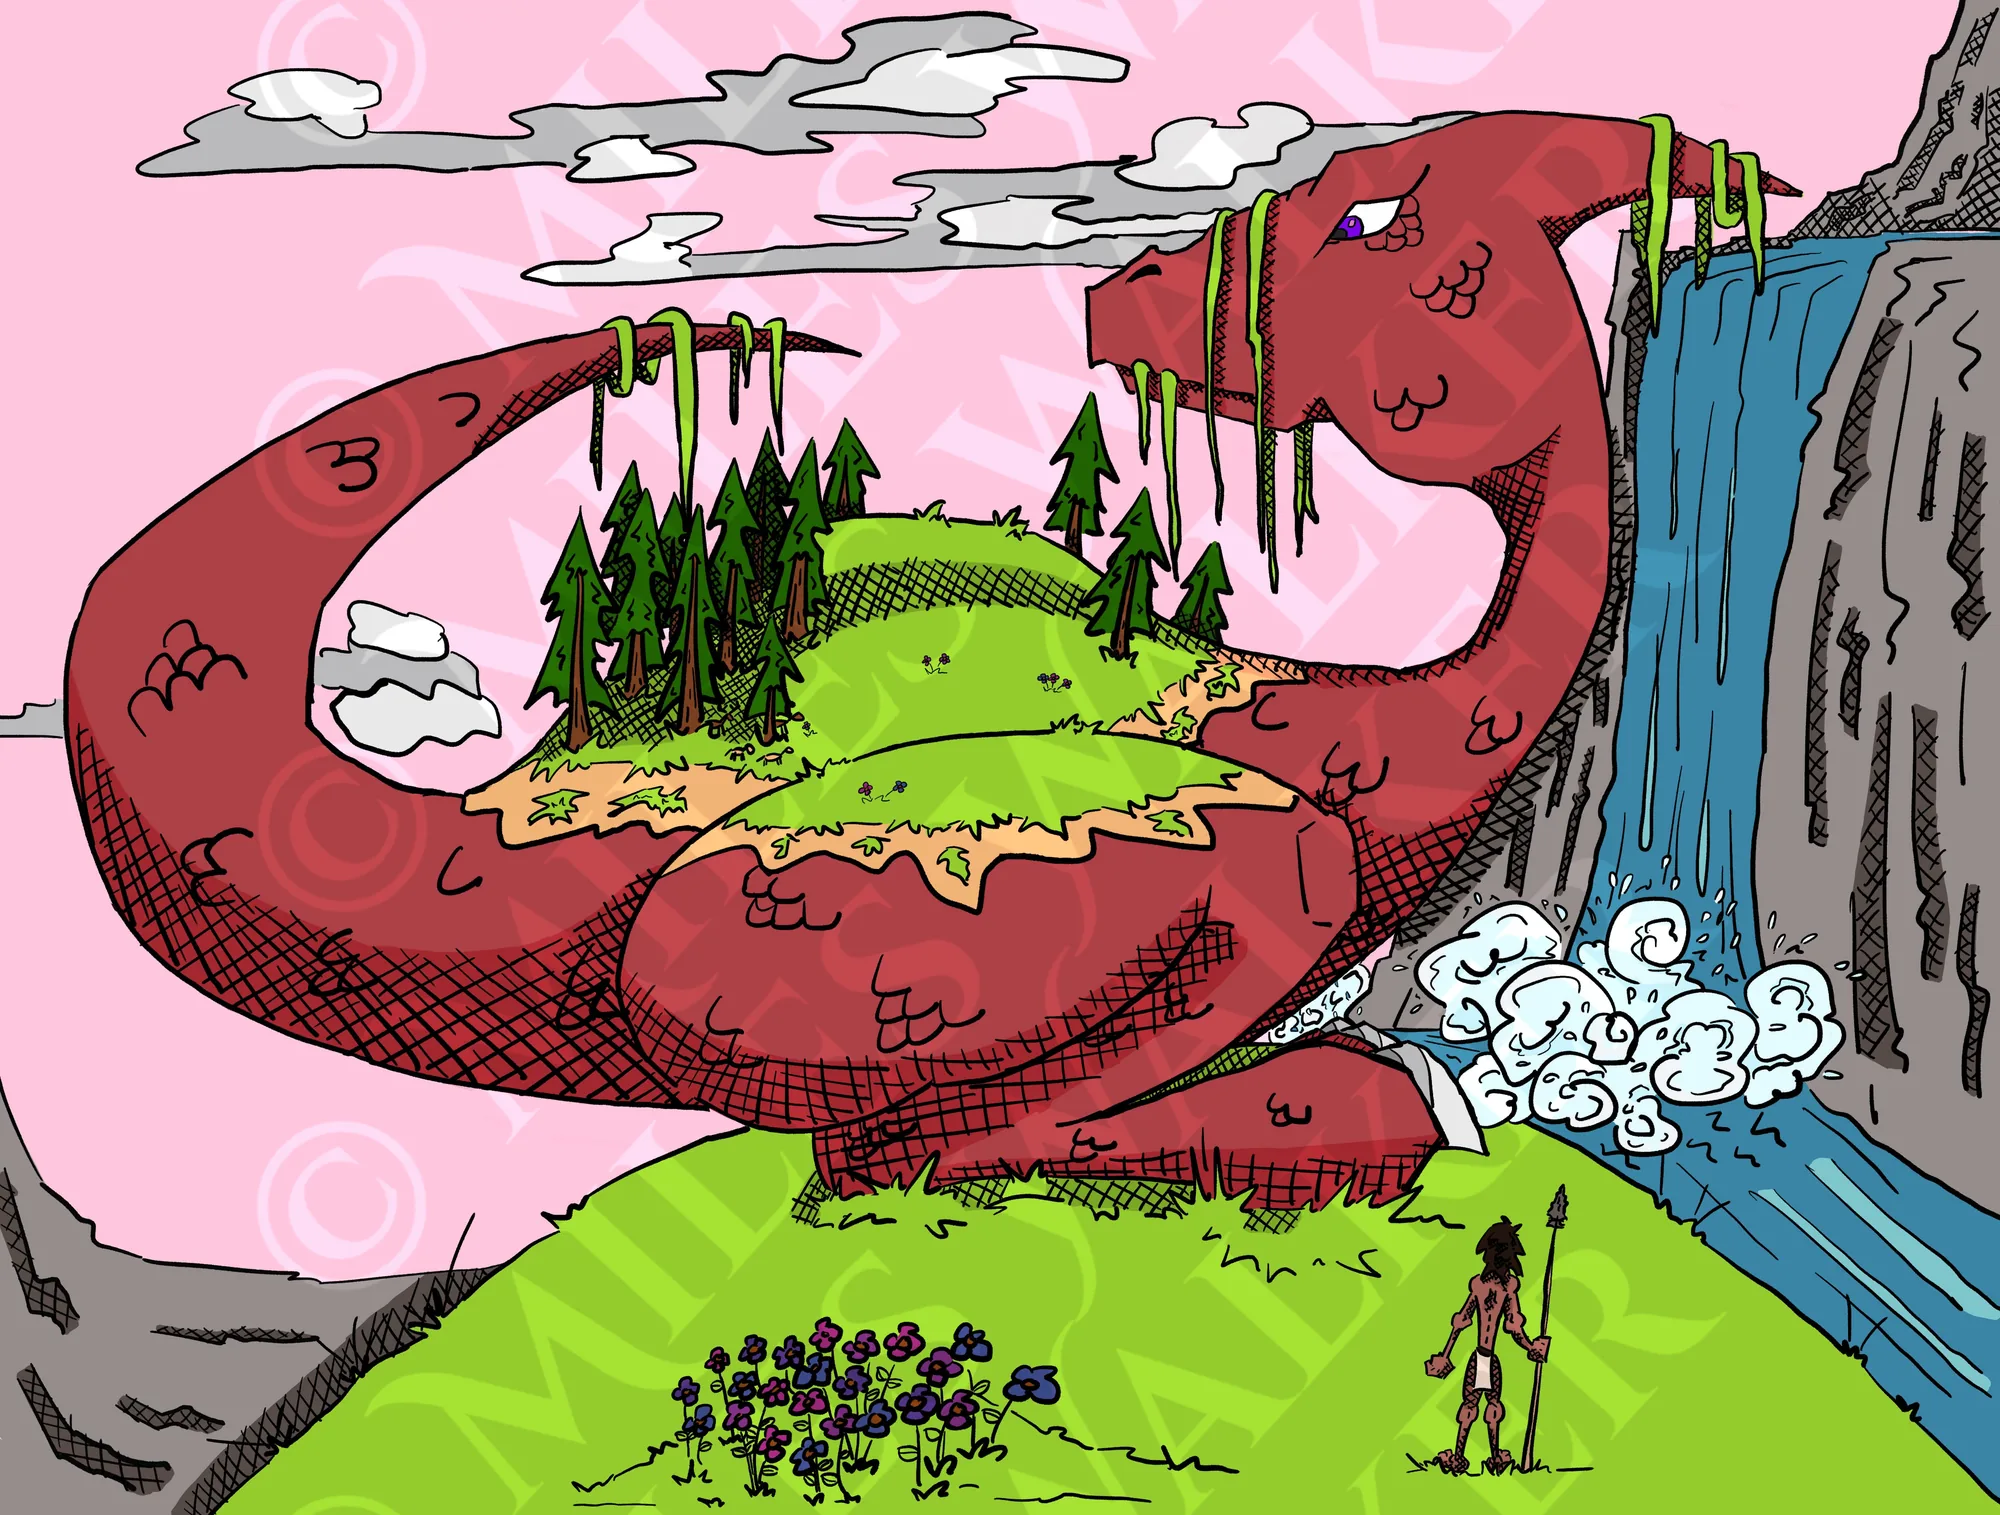
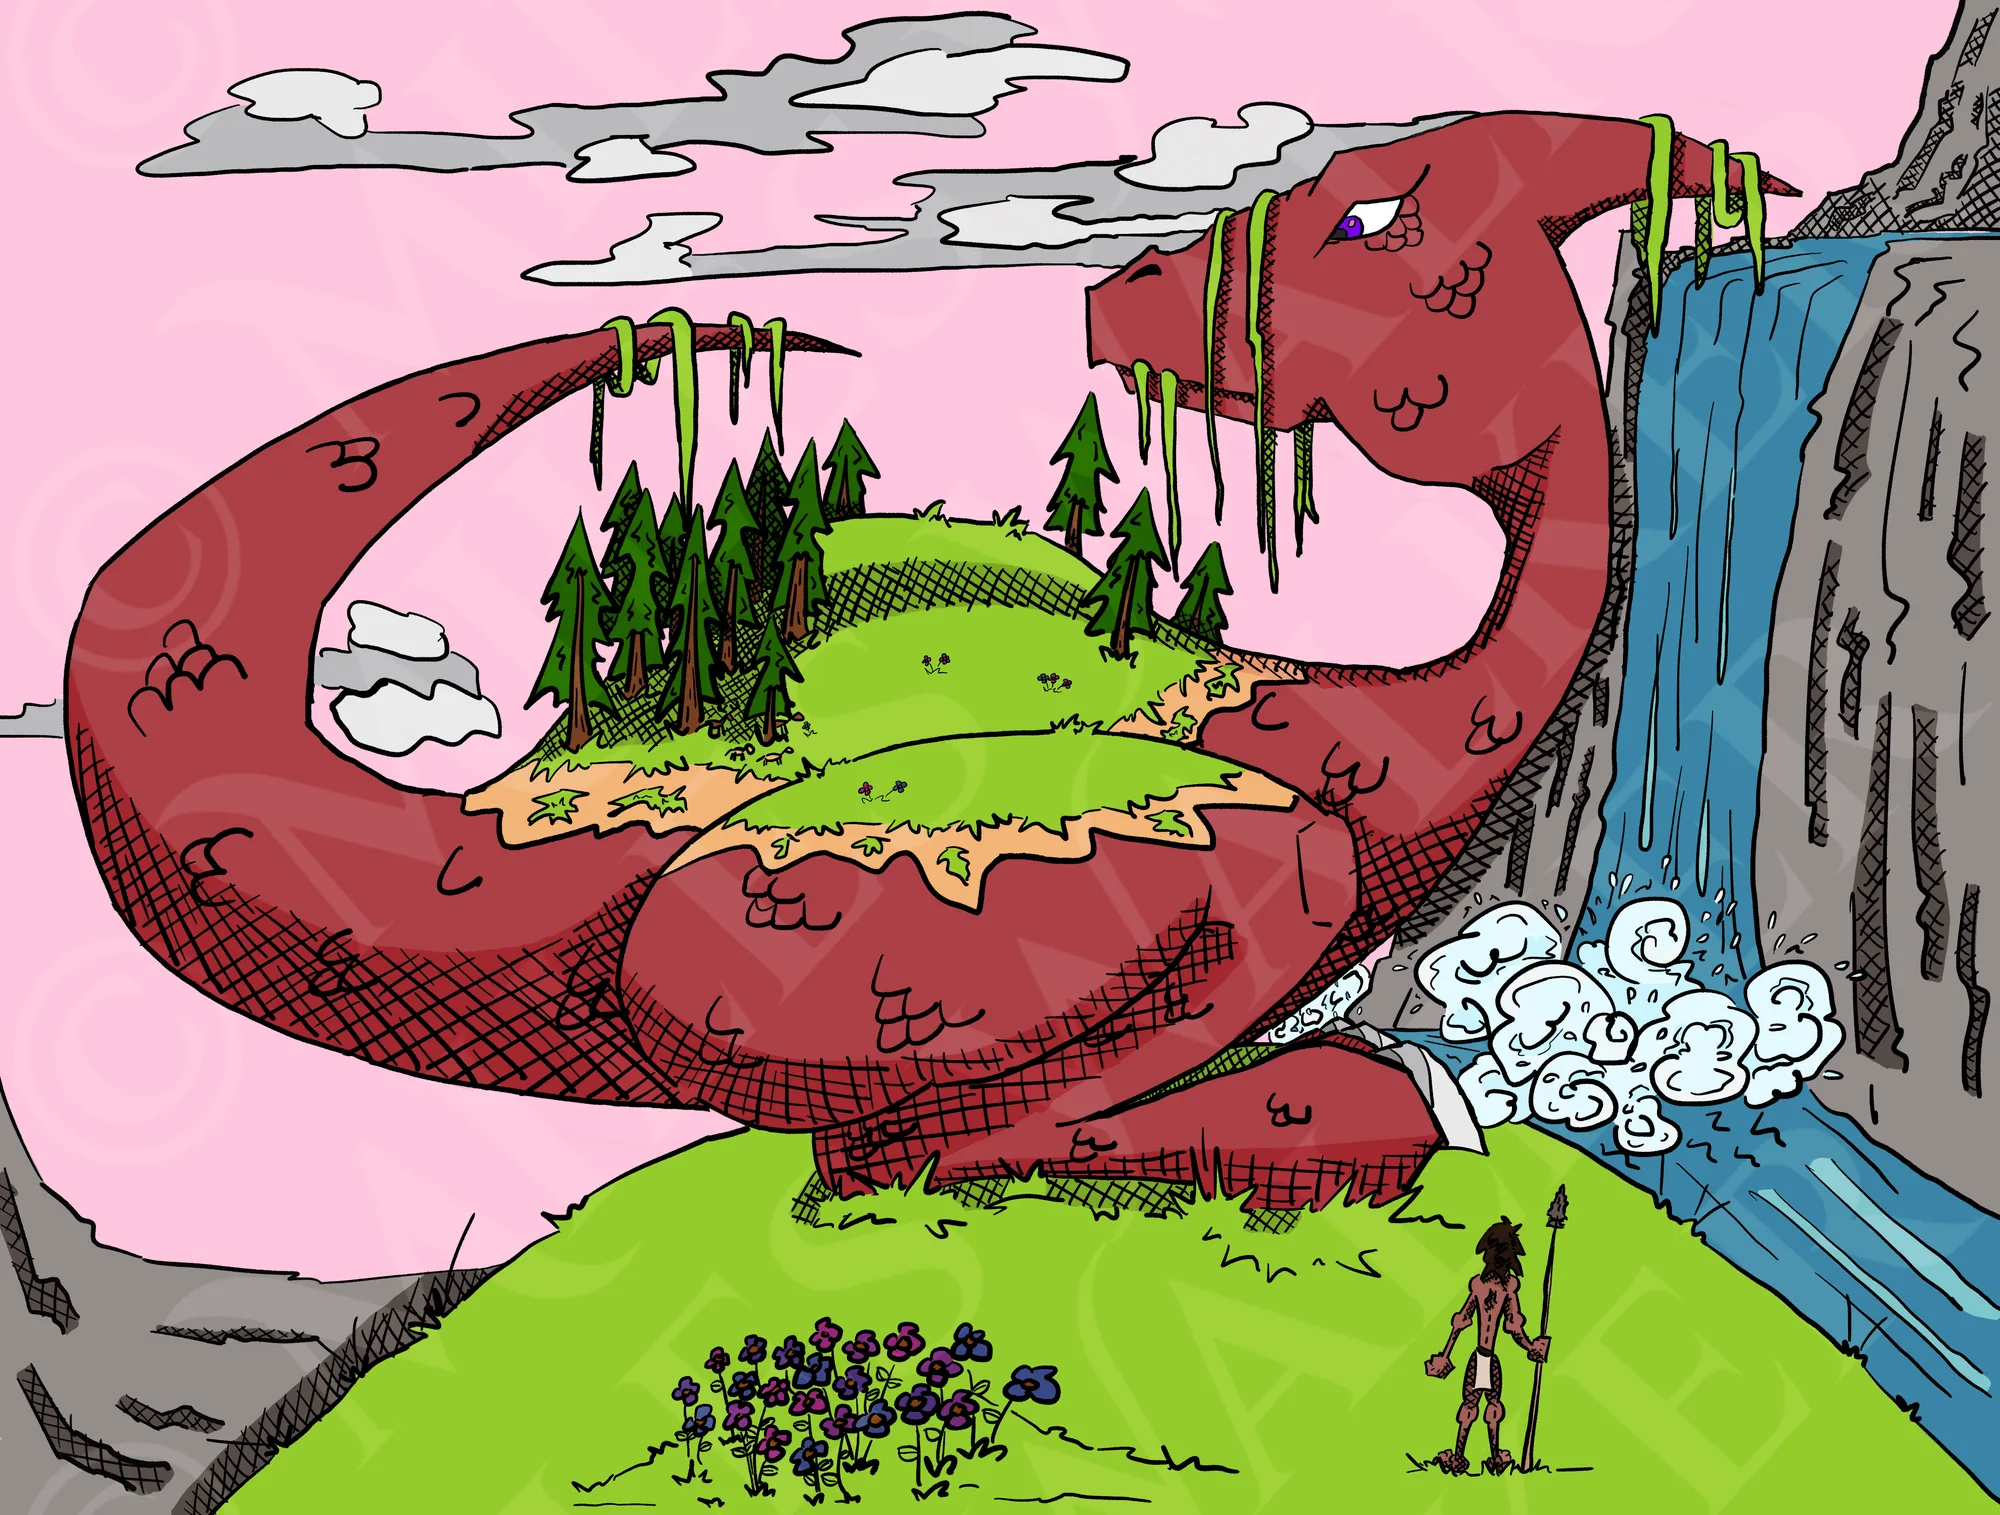
Add Naegelin's Bakery, and regenerate every site image watermarked
The site images are now generated from the clean print masters with the
© MILES WALKER mark applied in code, rather than watermarked by hand, so
they can be regenerated consistently whenever a master changes.

The mark is composited in GIMP's Divide blend mode at 12% -- NOT normal
alpha. Divide lightens (base * 256 / (blend + 1)), so the dark mark lifts
the artwork as a faint sheen instead of printing dark text over it. A
normal-mode composite at any strength visible enough to deter copying was
adding real visual busyness to the paintings.

Verified rather than eyeballed: each image's difference from its master is
correlated against the watermark's alpha mask. All 14 score 0.55-0.90
(2% divide had scored 0.11-0.35, i.e. below the threshold of visibility --
which is why several looked unwatermarked).

Naegelin's Bakery joins the gallery and the shop catalog as Environment.
It's a direct architectural painting of the real New Braunfels bakery, so
the title matches the sign in the artwork. Its web files drop the
apostrophe (Naegelins_Bakery.webp) -- legal in a URL but it needs encoding
and trips up naive scripts.

Print files are never watermarked; that stays web-only.

Initial load 2.44 MB across 14 works (was 2.26 across 13).

diff --git a/shop.html b/shop.html
@@ -630,6 +630,18 @@
             <a class="print-inquire" href="mailto:mileswalkerart@gmail.com?subject=Print%20inquiry%3A%20Wildlife&amp;body=Hi%20Miles%2C%0A%0AI%27d%20like%20to%20order%20a%20print%20of%20%22Wildlife%22.%0A%0APaper%20or%20canvas%3A%0ASize%3A%0AFraming%3A%0AShipping%20to%3A%0A%0AThanks%21%0A">Request this print</a>
           </div>
         </article>
+
+        <article class="print-card">
+          <a class="glightbox print-thumb" href="Images/Naegelins_Bakery.webp" data-lg-size="1515-2000">
+            <img src="Images/thumbs/Naegelins_Bakery.webp" alt="Naegelin's Bakery"
+                 width="800" height="1056" loading="lazy" decoding="async" />
+          </a>
+          <div class="print-meta">
+            <h3 class="print-title">Naegelin's Bakery</h3>
+            <p class="print-kind">Environment &middot; Portrait</p>
+            <a class="print-inquire" href="mailto:mileswalkerart@gmail.com?subject=Print%20inquiry%3A%20Naegelin%27s%20Bakery&amp;body=Hi%20Miles%2C%0A%0AI%27d%20like%20to%20order%20a%20print%20of%20%22Naegelin%27s%20Bakery%22.%0A%0APaper%20or%20canvas%3A%0ASize%3A%0AFraming%3A%0AShipping%20to%3A%0A%0AThanks%21%0A">Request this print</a>
+          </div>
+        </article>
       </div>
     </div>
   </section>

diff --git a/index.html b/index.html
@@ -651,6 +651,14 @@
           </div>
         </a>
 
+        <a class="glightbox" href="Images/Naegelins_Bakery.webp" data-lg-size="1515-2000">
+          <img src="Images/thumbs/Naegelins_Bakery.webp" alt="Naegelin's Bakery" width="800" height="1056" loading="lazy" decoding="async" />
+          <div class="gallery-caption">
+            <span class="gallery-caption-title">Naegelin's Bakery</span>
+            <span class="gallery-caption-type">Environment</span>
+          </div>
+        </a>
+
       </div>
     </div>
   </section>
